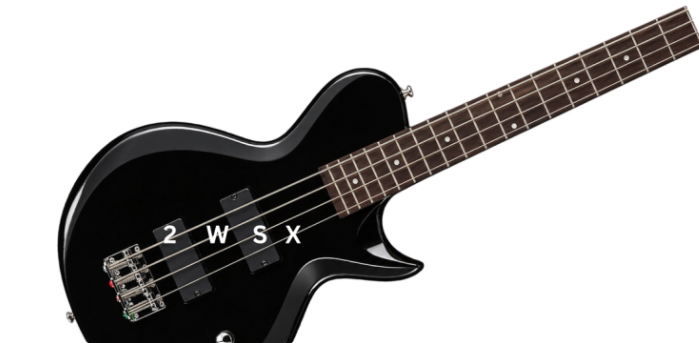
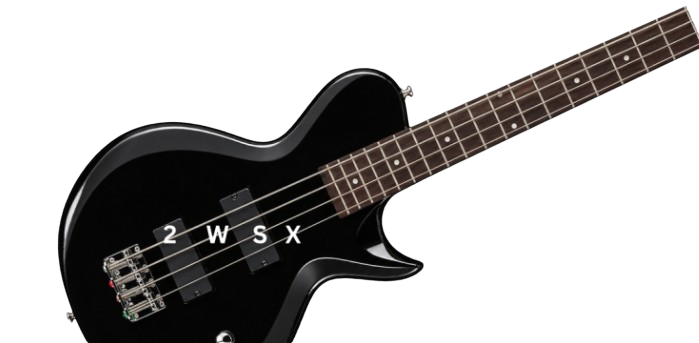
Add stage to freeplay for all instruments and changed the instrument and mentronome to not be see through

diff --git a/VirtualVirtuoso/VirtualVirtuoso copy/src/Piano.css b/VirtualVirtuoso/VirtualVirtuoso copy/src/Piano.css
@@ -1,16 +1,16 @@
+
 /* stage background */
 .PageBackground {
   position: fixed;
   inset: 0;
   width: 100%;
   min-height: 100vh;
-  background-image: url('./assets/EmptyStagePhoto.jpg');
+  background-image: url('./assets/EmptyStagePhoto.png');
   background-size: cover;
   background-position: center;
   background-repeat: no-repeat;
   z-index: 0;
 }
-
 /* piano container */
 .PianoContainer {
   position: fixed;
@@ -37,16 +37,18 @@
   background-size: contain;
   background-repeat: no-repeat;
   background-position: center;
+  background-color: transparent;
 }
 /* Toggleable piano picture */
 .ToggleablePianoPicture {
    width: 100%;
   aspect-ratio: 1 / 1;
   max-height: 45vh;
-  background-image: url('./assets/PianoToggleable.jpg');
+  background-image: url('./assets/PianoToggleable.png');
   background-size: contain;
   background-repeat: no-repeat;
   background-position: center;
+  background-color: transparent;
 }
 
 /* home button */
@@ -97,7 +99,7 @@
 
 /* instructions box */
 .instructions-box {
-  background: rgba(255, 255, 255, 0.88);
+  background: rgba(255, 255, 255);
   padding: 18px 24px;
   border-radius: 8px;
   border: 2px solid black;
@@ -214,7 +216,7 @@
   padding: 10px 14px;
   border: 2px solid black;
   border-radius: 10px;
-  background: rgba(255, 255, 255, 0.92);
+  background: rgba(255, 255, 255);
   color: black;
   font-family: 'Courier New', monospace;
   font-size: 14px;

diff --git a/VirtualVirtuoso/VirtualVirtuoso copy/src/Drums.css b/VirtualVirtuoso/VirtualVirtuoso copy/src/Drums.css
@@ -25,6 +25,20 @@ body:has(.drum-header) {
   box-sizing: border-box;
 }
 
+
+/* stage background */
+.PageBackground {
+  position: fixed;
+  inset: 0;
+  width: 100%;
+  min-height: 100vh;
+  background-image: url('./assets/EmptyStagePhoto.png');
+  background-size: cover;
+  background-position: center;
+  background-repeat: no-repeat;
+  z-index: 0;
+}
+
 /* drums picture */
 .DrumsPicture {
   width: 100%;
@@ -84,7 +98,7 @@ body:has(.drum-header) {
 
 /* instructions box */
 .instructions-box {
-  background: rgba(255, 255, 255, 0.88);
+  background: rgba(255, 255, 255);
   padding: 18px 24px;
   border-radius: 8px;
   border: 2px solid black;
@@ -312,7 +326,7 @@ body:has(.drum-header) {
   padding: 10px 14px;
   border: 2px solid black;
   border-radius: 10px;
-  background: rgba(255, 255, 255, 0.92);
+  background: rgba(255, 255, 255);
   color: black;
   font-family: 'Courier New', monospace;
   font-size: 14px;

diff --git a/VirtualVirtuoso/VirtualVirtuoso copy/src/Guitar.css b/VirtualVirtuoso/VirtualVirtuoso copy/src/Guitar.css
@@ -25,6 +25,20 @@ body:has(.Bass-header) {
   box-sizing: border-box;
 }
 
+
+/* stage background */
+.PageBackground {
+  position: fixed;
+  inset: 0;
+  width: 100%;
+  min-height: 100vh;
+  background-image: url('./assets/EmptyStagePhoto.png');
+  background-size: cover;
+  background-position: center;
+  background-repeat: no-repeat;
+  z-index: 0;
+}
+
 /* guitar picture */
 .BassPicture {
   width: 100%;
@@ -84,7 +98,7 @@ body:has(.Bass-header) {
 
 /* instructions box */
 .instructions-box {
-  background: rgba(255, 255, 255, 0.88);
+  background: rgba(255, 255, 255);
   padding: 18px 24px;
   border-radius: 8px;
   border: 2px solid black;
@@ -203,7 +217,7 @@ body:has(.Bass-header) {
   padding: 10px 14px;
   border: 2px solid black;
   border-radius: 10px;
-  background: rgba(255, 255, 255, 0.92);
+  background: rgba(255, 255, 255);
   color: black;
   font-family: 'Courier New', monospace;
   font-size: 14px;

diff --git a/VirtualVirtuoso/VirtualVirtuoso copy/src/Piano.jsx b/VirtualVirtuoso/VirtualVirtuoso copy/src/Piano.jsx
@@ -377,7 +377,8 @@ useEffect(() => {
 
  
    <> 
-        <div className="PageBackground">
+        {/* Stage Background */}
+        <div className="PageBackground"></div>
         
         <header className="Piano-header">
         <button
@@ -400,7 +401,7 @@ useEffect(() => {
             className={toggleablePianoOn ? "PianoPicture ToggleablePianoPicture": "PianoPicture"}
         ></div>
         </div>
-        </div>
+       
         <div className="metronome-controls">
 
             <button

diff --git a/VirtualVirtuoso/VirtualVirtuoso copy/src/Drums.jsx b/VirtualVirtuoso/VirtualVirtuoso copy/src/Drums.jsx
@@ -529,8 +529,10 @@ function Drums({
 
     return(
 
-        <>
-
+        <>  {mode === 'freeplay' && (
+            <div className="PageBackground"></div>
+        )}
+            
             <header className="drum-header">
                 <button
                     className="selection-back" /* back button */

diff --git a/VirtualVirtuoso/VirtualVirtuoso copy/src/Guitar.jsx b/VirtualVirtuoso/VirtualVirtuoso copy/src/Guitar.jsx
@@ -267,7 +267,8 @@ function Guitar({ mode, page, selectedInstrument, onBack, challengeReady }) {
 
  
    <> 
-
+        {/* Stage Background */}
+        <div className="PageBackground"></div>
         <header className="Bass-header">
         <button
           className="selection-back" /* back button */
